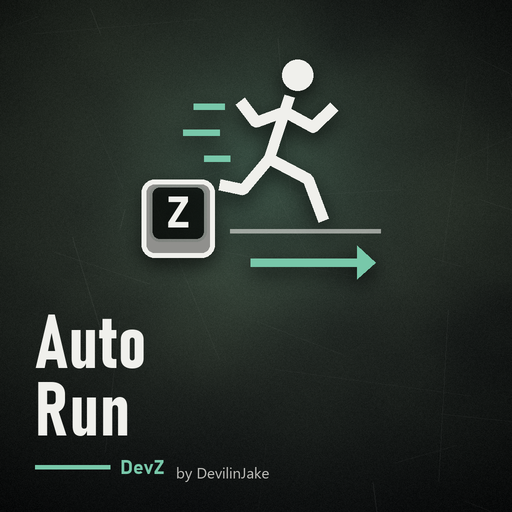
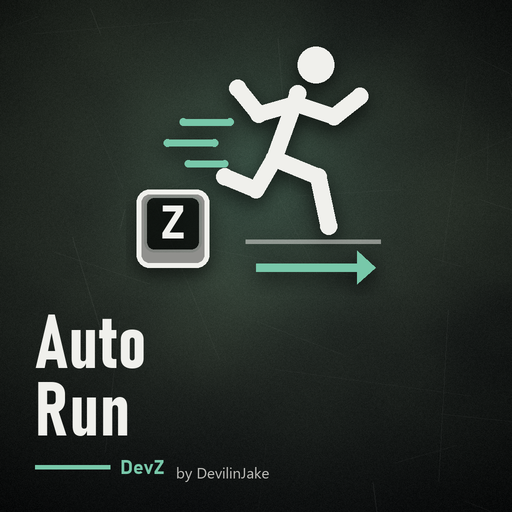
Auto Run: bolder Workshop card pictogram
The runner is now the classic running-man sign in full stride, drawn with
round-ended strokes and big enough to read at thumbnail size, with the
speed lines, the arrow ahead and the Z key kept. Adds a stroke() helper
for marker-pen style lines.

Changed region(s): [[0.25, 0.0938, 0.75, 0.5625]]

diff --git a/tools/workshop_preview.py b/tools/workshop_preview.py
@@ -408,29 +408,38 @@ class Pict:
         self.d.rounded_rectangle(self.p(14, 74, 27, 84), radius=3 * self.k, fill=self.accent)
         self.d.rounded_rectangle(self.p(26.5, 67, 30, 91), radius=1.5 * self.k, fill=self.fg)
 
+    def stroke(self, pts, color, w):
+        """A polyline with round joints and round ends, like a marker pen."""
+        self.d.line(self.p(*pts), fill=color, width=self.lw(w), joint="curve")
+        r = w / 2
+        for x, y in zip(pts[::2], pts[1::2]):
+            self.d.ellipse(self.p(x - r, y - r, x + r, y + r), fill=color)
+
     def autorun(self):
-        """a Z keycap, a running figure with speed lines trailing it, an arrow ahead"""
-        # the keycap, lower left: a dark key with a lighter top face and a Z
-        self.d.rounded_rectangle(self.p(6, 58, 34, 88), radius=5 * self.k, fill=darken(self.fg, 0.6),
+        """a running figure in full stride with speed lines trailing it and an arrow ahead, and
+        the Z key it starts with, lower left"""
+        # the runner: the classic running-man sign, leaning forward, drawn big and bold so it
+        # reads at thumbnail size
+        w = 6.5
+        hx, hy = 73, 14
+        self.d.ellipse(self.p(hx - 7, hy - 7, hx + 7, hy + 7), fill=self.fg)
+        self.stroke([66, 25, 57, 50], self.fg, w)                   # torso, leaning into the run
+        self.stroke([65, 29, 80, 34, 90, 26], self.fg, w)           # front arm, driving forward
+        self.stroke([65, 29, 51, 33, 43, 23], self.fg, w)           # back arm, swung back
+        self.stroke([57, 50, 74, 57, 78, 76], self.fg, w)           # front leg, knee up, foot down
+        self.stroke([57, 50, 50, 62, 38, 57], self.fg, w)           # back leg, kicked out behind
+        # speed lines trailing the body
+        for x0, x1, y in [(22, 40, 36), (16, 34, 44), (24, 38, 52)]:
+            self.stroke([x0, y, x1, y], self.accent, 2.8)
+        # the ground, and the arrow: the way ahead
+        self.d.line(self.p(46, 82, 98, 82), fill=self.fg + (130,), width=self.lw(1.8))
+        self.arrow(50, 92, 96, color=self.accent, w=3.4)
+        # the keycap, lower left: a dark key with a recessed top face and a Z
+        self.d.rounded_rectangle(self.p(4, 62, 32, 92), radius=5 * self.k, fill=darken(self.fg, 0.6),
                                  outline=self.fg, width=self.lw(2))
-        self.d.rounded_rectangle(self.p(9, 60, 31, 82), radius=4 * self.k, fill=(0, 0, 0, 120),
+        self.d.rounded_rectangle(self.p(7, 64, 29, 86), radius=4 * self.k, fill=(0, 0, 0, 120),
                                  outline=self.fg + (120,), width=self.lw(1.2))
-        self.d.text(self.p(20, 71.5), "Z", font=bahn(int(17 * self.k), "Bold"), fill=self.fg, anchor="mm")
-        # the runner, mid-stride, leaning into the run (lines in 0..100 units)
-        w = self.lw(4.6)
-        hx, hy = 66, 18
-        self.d.ellipse(self.p(hx - 6, hy - 6, hx + 6, hy + 6), fill=self.fg)
-        self.d.line(self.p(63, 26, 55, 50), fill=self.fg, width=w, joint="curve")            # torso
-        self.d.line(self.p(61, 32, 72, 38, 80, 30), fill=self.fg, width=w, joint="curve")    # front arm
-        self.d.line(self.p(61, 32, 50, 36, 44, 28), fill=self.fg, width=w, joint="curve")    # back arm
-        self.d.line(self.p(55, 50, 70, 58, 76, 74), fill=self.fg, width=w, joint="curve")    # front leg
-        self.d.line(self.p(55, 50, 45, 62, 36, 60), fill=self.fg, width=w, joint="curve")    # back leg
-        # speed lines trailing the runner
-        for x0, x1, y in [(26, 38, 30), (22, 36, 40), (30, 40, 50)]:
-            self.d.line(self.p(x0, y, x1, y), fill=self.accent, width=self.lw(2.6))
-        # ground and the way ahead
-        self.d.line(self.p(40, 78, 98, 78), fill=self.fg + (150,), width=self.lw(1.8))
-        self.arrow(48, 90, 96, color=self.accent, w=3.4)
+        self.d.text(self.p(18, 75.5), "Z", font=bahn(int(18 * self.k), "Bold"), fill=self.fg, anchor="mm")
 
     def tiles(self, items):
         """A bundle: one small card-like tile per mod, each with that mod's own pictogram and
